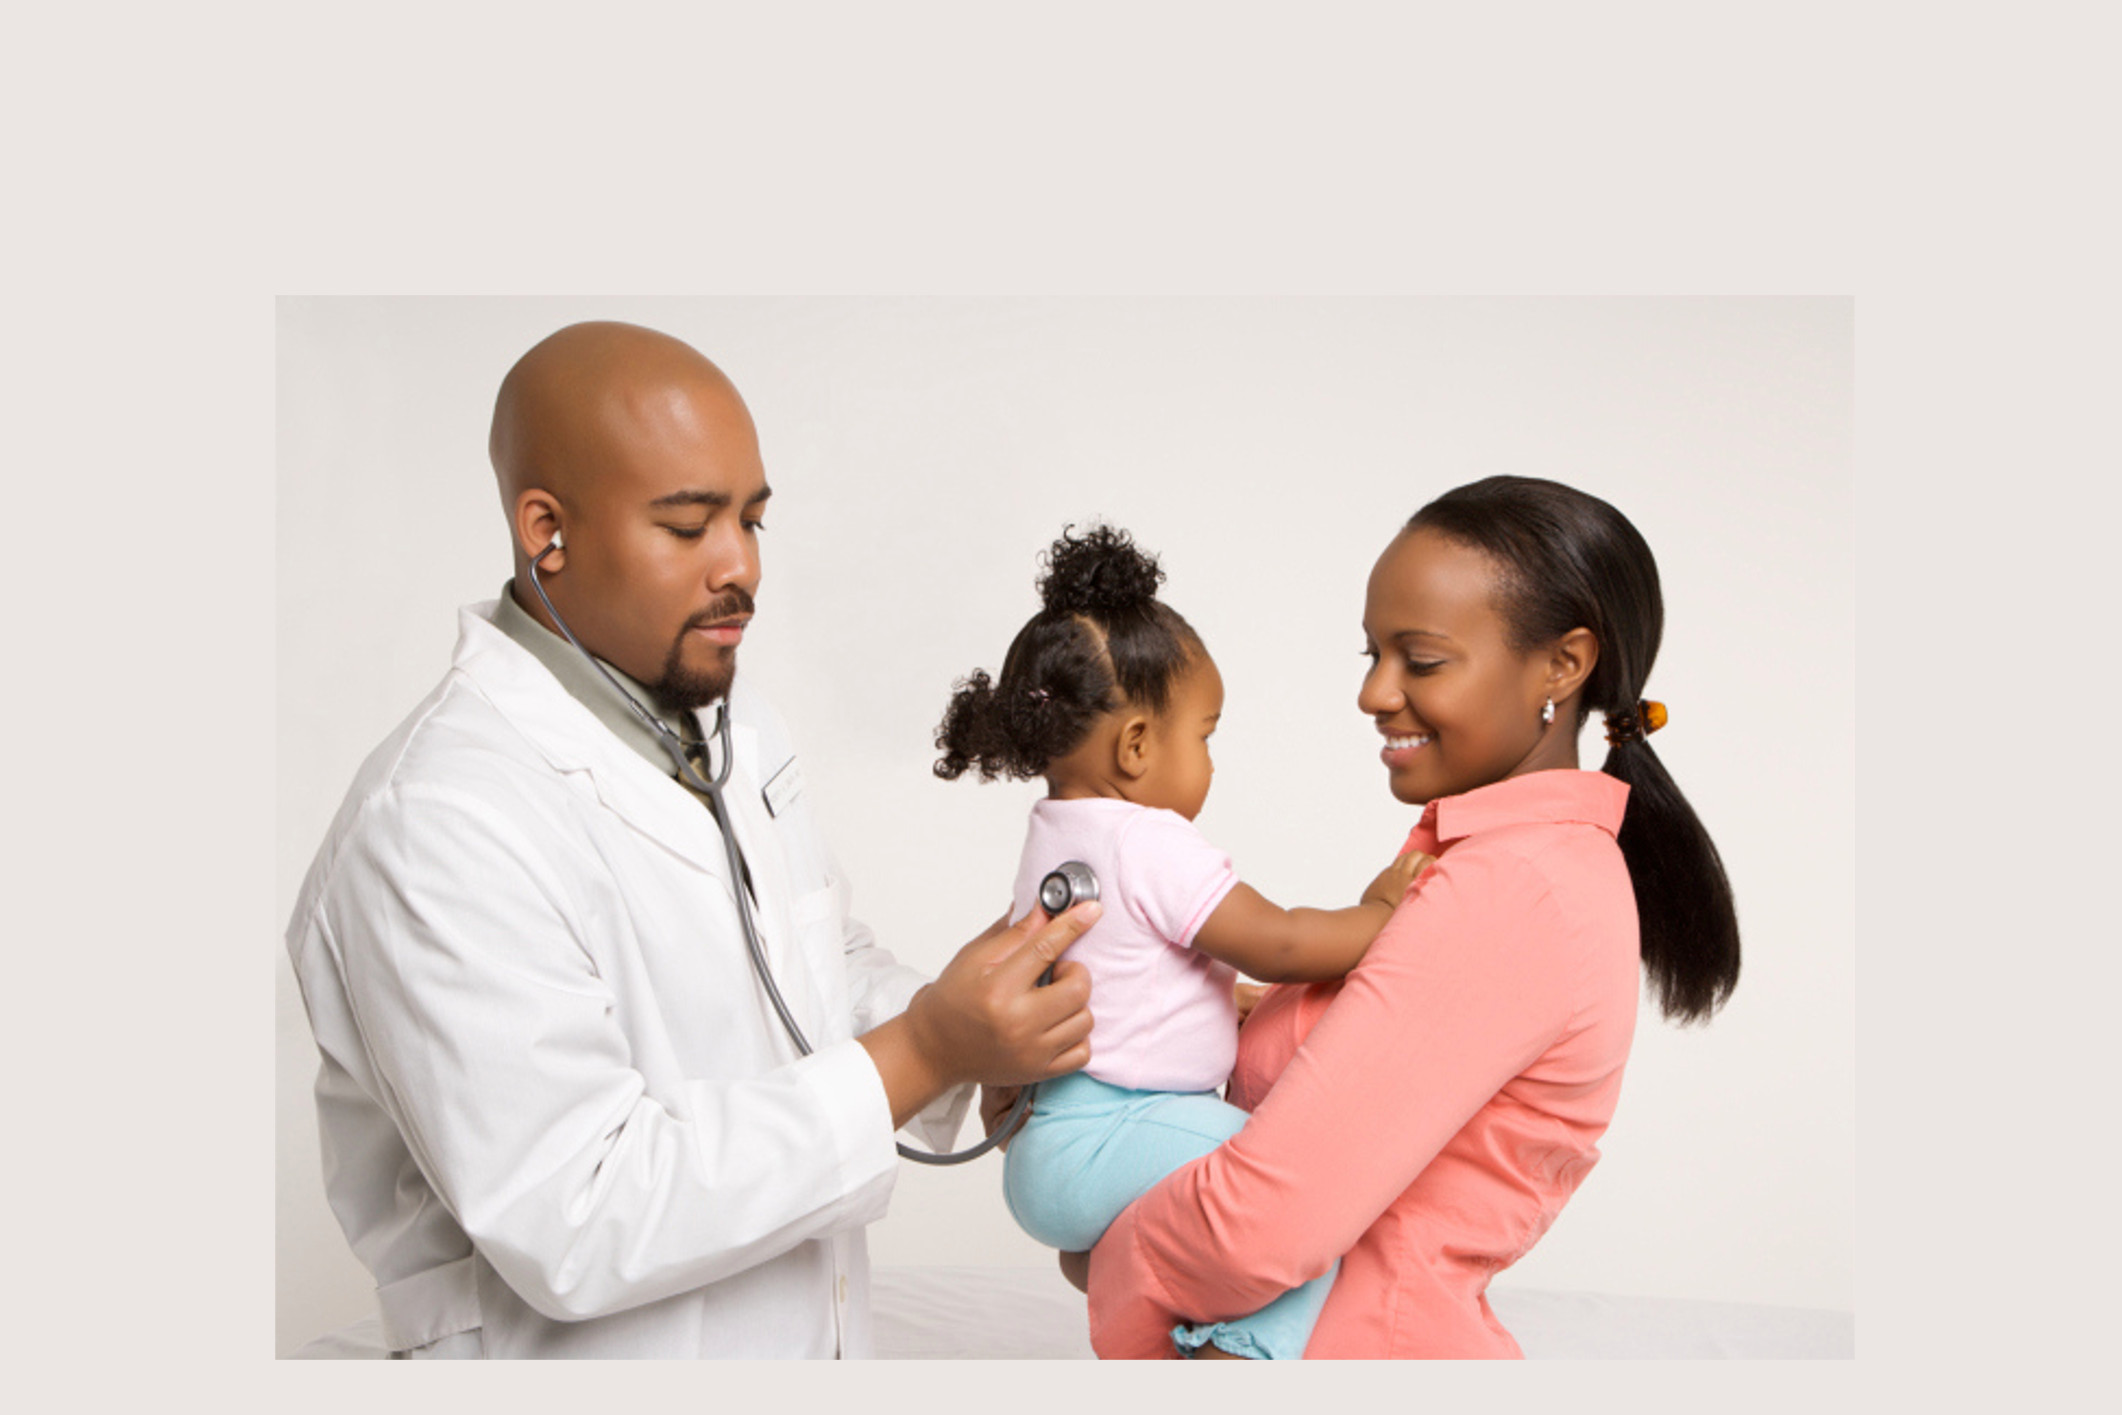
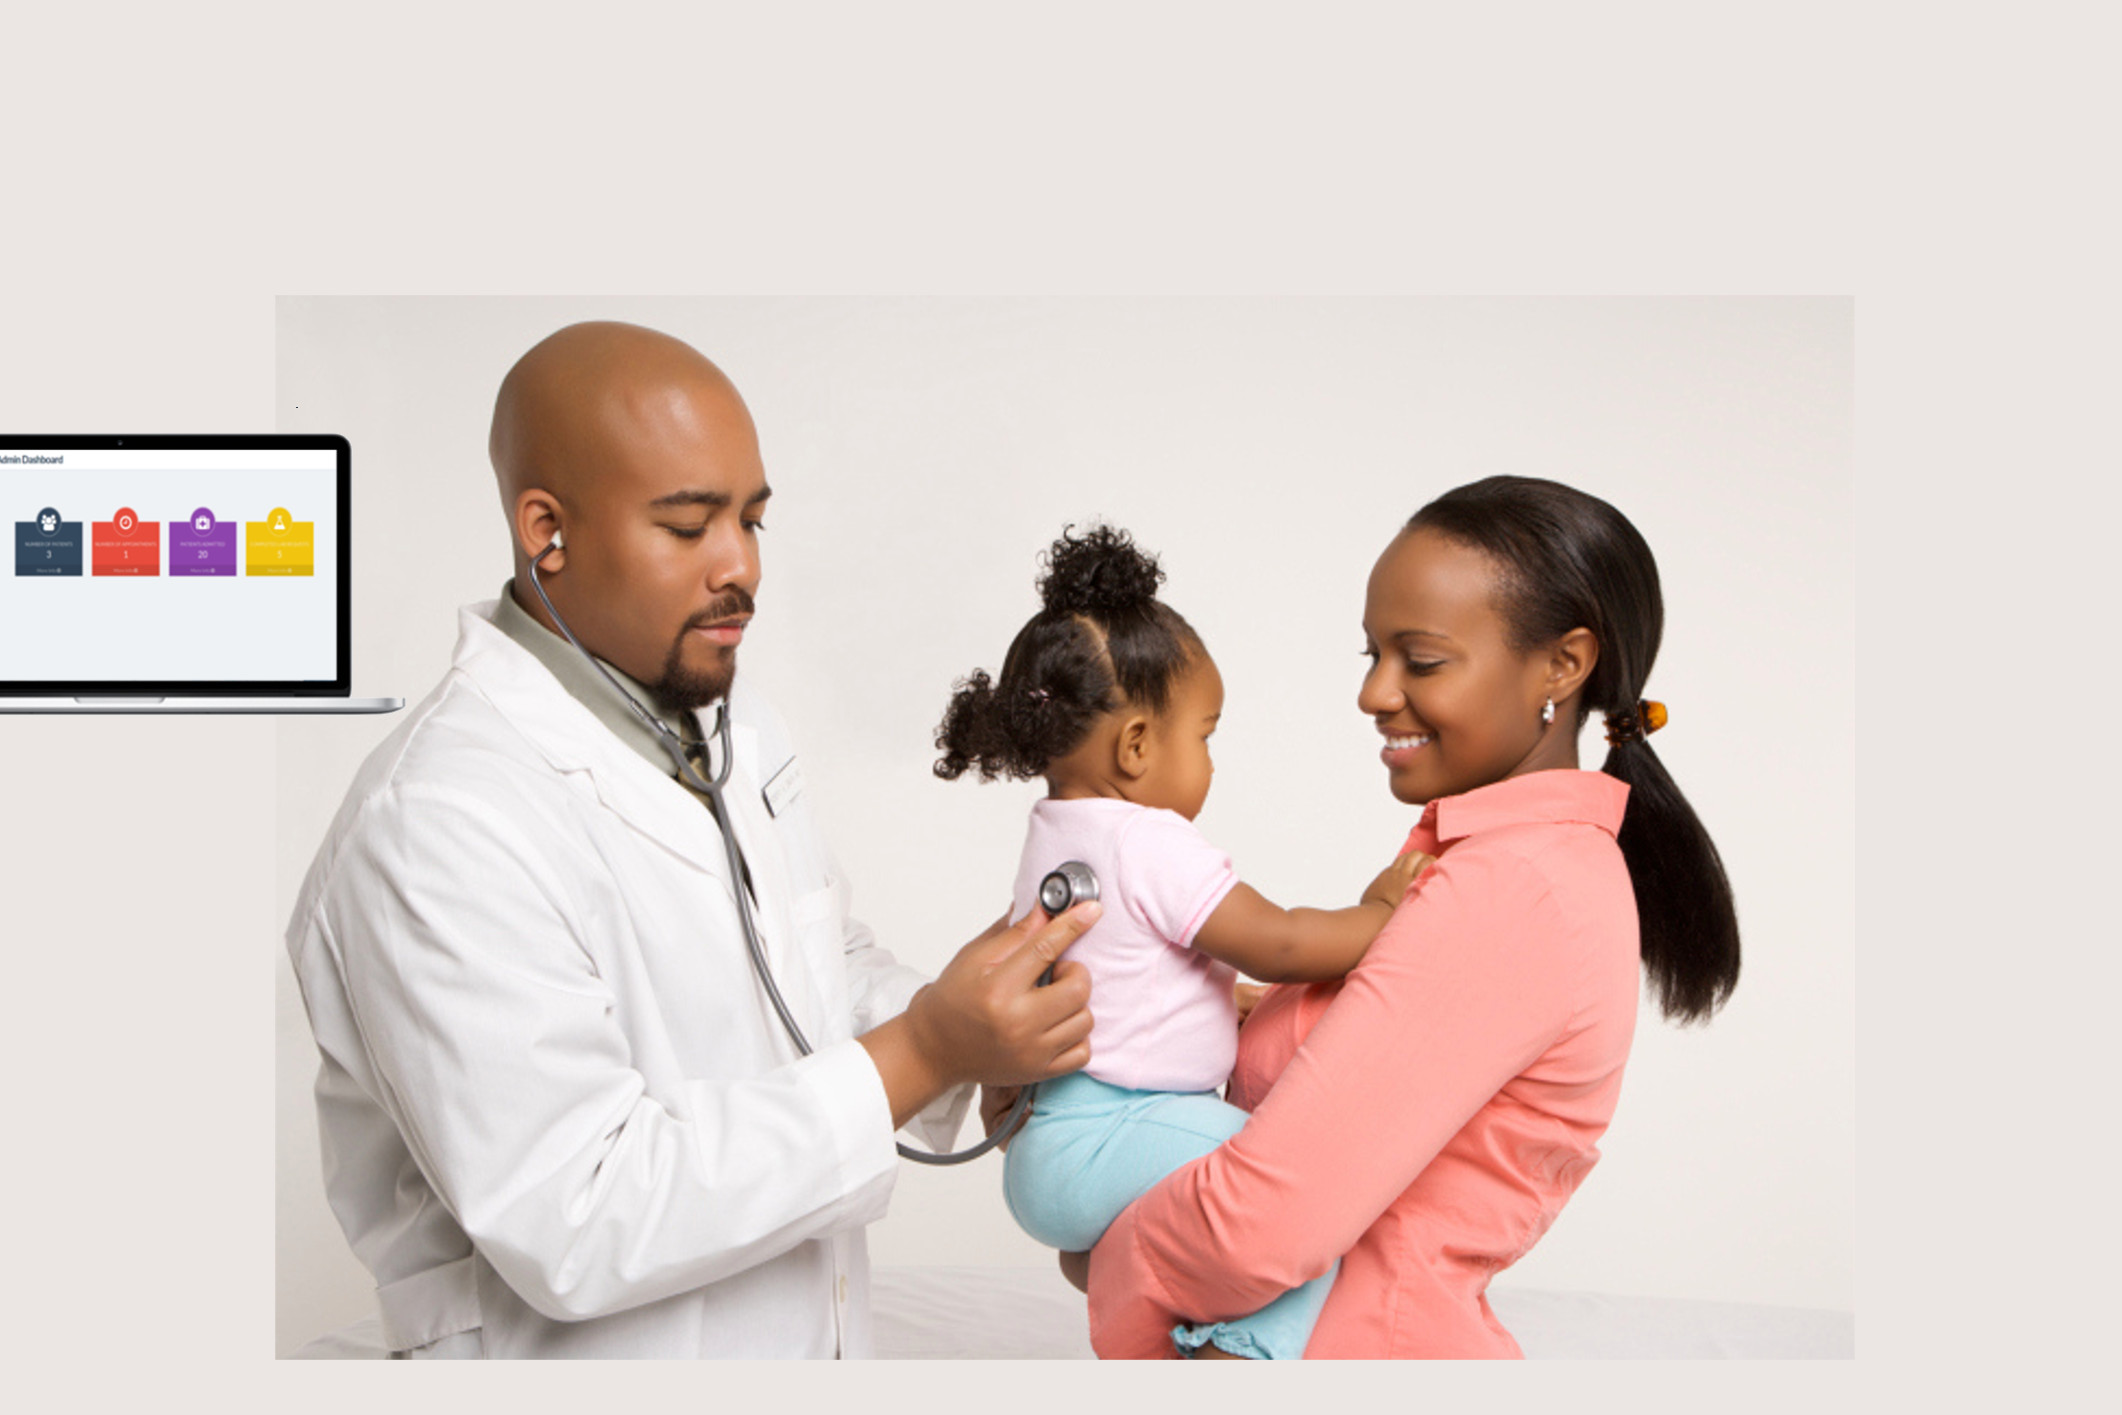
modify value prop copy

Changed region(s): [[0.0, 0.2799, 0.1866, 0.5286]]

diff --git a/index.html b/index.html
@@ -12,7 +12,7 @@
 <meta name="news_keywords" content="EHR, EMR, Electronic Medical records, Electronic Health Records, Electronic Health Records, PM, Practice Management, Patient Engagement, Practice Marketing, RCM, Billing Services, ePrescribing, Medical Billing, Electronic Health Records, Meaningful Use, ICD-10, Sub-saharan Africa" />
 <link rel="canonical" href="index.html" />
 <link rel="shortlink" href="index.html" />
-<title>Simple to use EHR for clinics in West Africa | Curacel.</title>
+<title>>Curacel Health | simple system to manage your practice</title>
 <style type="text/css" media="all">
   @import url("modules/system/system.base788b.css?o8gpdl");
   @import url("modules/system/system.menus788b.css?o8gpdl");
@@ -147,7 +147,7 @@ j=d.createElement(s),dl=l!='dataLayer'?'&l='+l:'';j.async=true;j.src=
         </div>
         <div class="nav-menu">
           <ul id="primary" class="links clearfix main-menu">
-            <!-- <li class="menu-1891 first"><a href="ehr.html">Clinical</a></li> -->
+            <li class="menu-1891 first"><a href="http://curacelhealth.com/blog">Blog</a></li> 
             <li class="menu-2064 last"><a href="https://demo.curacel.co">SEE A DEMO</a></li>
           </ul>
         </div>
@@ -465,10 +465,10 @@ j=d.createElement(s),dl=l!='dataLayer'?'&l='+l:'';j.async=true;j.src=
                 <div class="field field-name-body field-type-text-with-summary field-label-hidden"><div class="field-items"><div class="field-item even" property="content:encoded"><!-- Hero -->
                   <section class="home-hero">
                     <div class="mob-overlay"></div>
-                    <div class="lockup-cont">
-                      <h1 class="main-title">Simple to use EHR<br />  for clinics in West Africa</h1>
+                    <div class="lockup-cont" style="text-align: center;">
+                      <h1 class="main-title"> Simple system to manage your medical practice</h1>
 
-                      <h3 class="sub-txt">Curacel helps you deliver outstanding patient care while building a healthy practice. </h3>
+                      <h3 class="sub-txt"></h3>
                       <div class="btn-cont">
                         <a href="https://demo.curacel.co" target="_blank" class="btn-lg-blue">SEE A DEMO</a>
                       </div>
